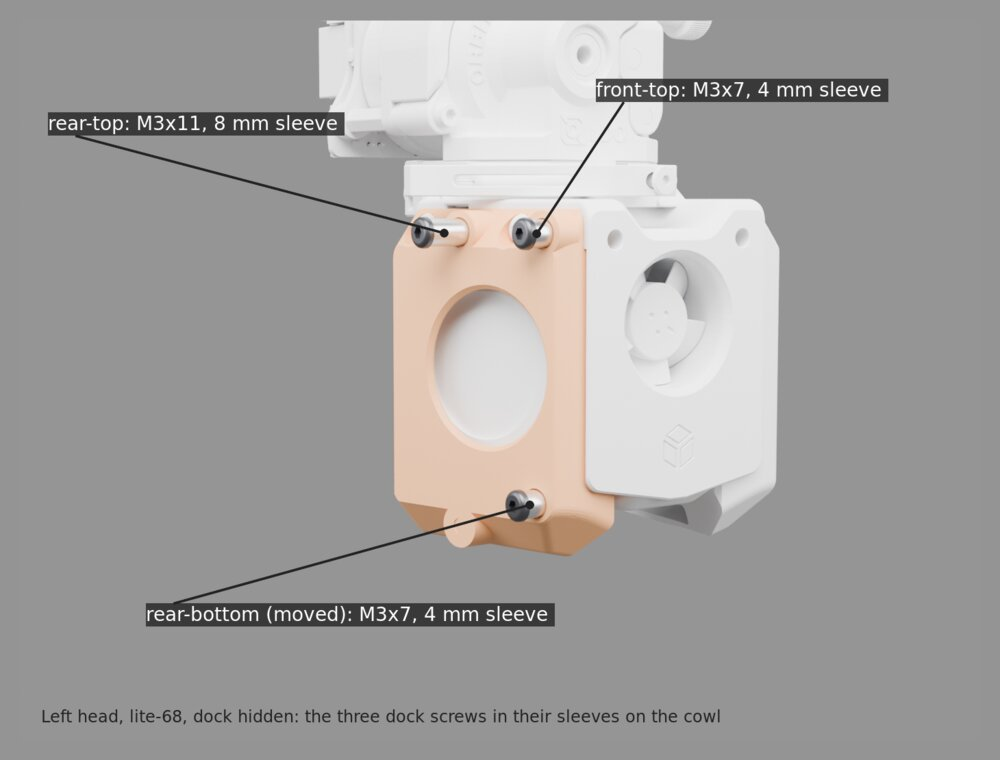
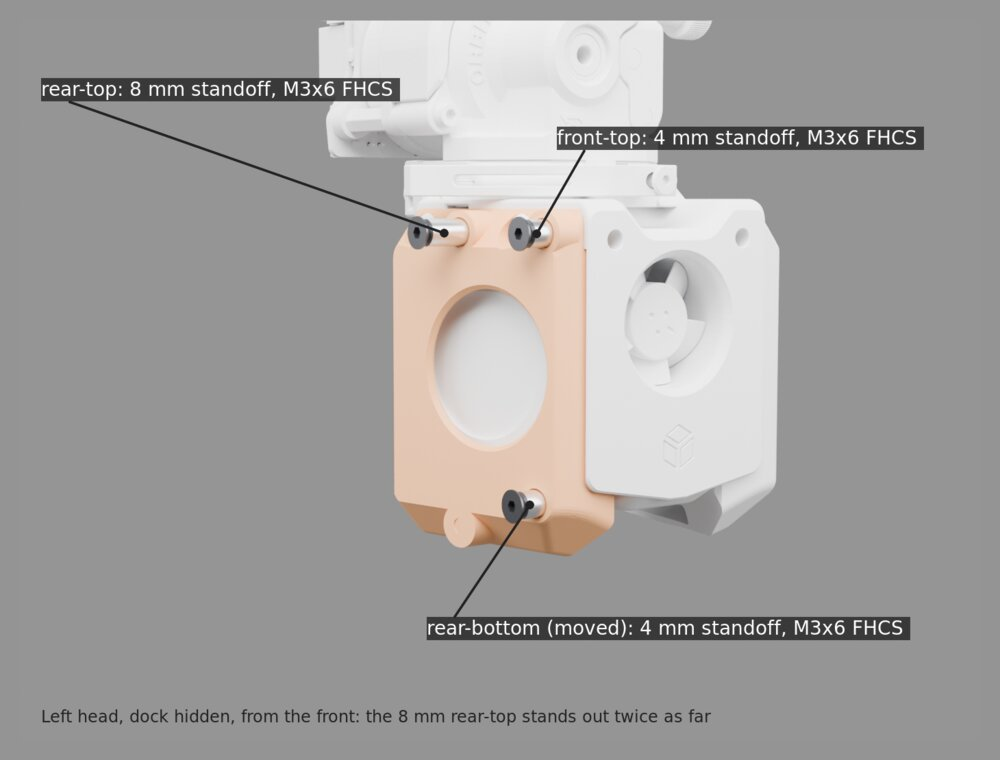
renders: dock hardware as chosen (M3x6 FHCS, standoffs, M3x3x5 inserts, 6x3 magnets); FHCS ground to 5 on 4 mm standoffs (#59)
Views 6-11 re-rendered under the same names. Modelling the hardware showed an M3x6 FHCS
puts 4.1 mm of thread into the standoff, more than a 4 mm body holds.

diff --git a/docs/assembly/stage-12-toolheads.md b/docs/assembly/stage-12-toolheads.md
@@ -20,7 +20,7 @@ height comes from the part, not from how far a screw is turned.
 | M3 heat-set insert, **short**: M3×3×5 (3 mm long, 5 mm OD), e.g. YuGtcen M3x3x5mm | 6 | Not the Voron 4 mm ones (the pocket is 3.4 mm deep), nor CNC Kitchen "M3 short" (thinner) |
 | M3 male-female round standoff, **4 mm body**, Ø5, M3×4 stud (e.g. "M3x4+4") | 5 | The 4 mm points |
 | M3 male-female round standoff, **8 mm body**, Ø5, M3×6 stud (e.g. AWclub "M3x8+6", 304 stainless) | 1 | The left head's rear-top |
-| M3 flat-head screw (FHCS, ISO 10642), **alloy steel** (black, strongly magnetic), not stainless; head **Ø5.8–6**, not the 5.5 kind | 6 | One per standoff. **M3×6** if the standoff's female thread is ≥ 4.5 mm deep, **M3×5** if it's 3.5–4.5 (measure it) |
+| M3 flat-head screw (FHCS, ISO 10642), **alloy steel** (black, strongly magnetic), not stainless; head **Ø5.8–6**, not the 5.5 kind | 6 | One per standoff. An M3×6 flat-head puts **4.1 mm** of thread into the standoff: more than a 4 mm standoff can hold, so on the **4 mm standoffs grind it to 5 mm** (3.1 mm in). On the 8 mm one, M3×6 fits if its hole is ≥ 4.5 mm deep (measure it) |
 | 6×3 mm N52 magnet (real N52, from a known vendor, e.g. Fabreeko) | 3 per dock | In the keyslot plate (step 5) |
 | CA glue | | For the magnets |
 | Threadlocker (medium, blue) | | On each stud |

diff --git a/cad/derived/madmax-andrewmcgr-dock-keyslot-pads/README.md b/cad/derived/madmax-andrewmcgr-dock-keyslot-pads/README.md
@@ -15,7 +15,7 @@ It's a modified version of a GPL-3.0 part.
 
 **Hardware per head** (the cowl side, `../a4tv2-duct-4010-madmax-dock/`): 3 short M3 heat-set inserts (3 mm long,
 5 mm OD) in the cowl; 3 M3 male-female round standoffs (4 mm body, Ø5, **stud ground to 3 mm**) screwed into them;
-3 M3 flat-head screws (FHCS, M3×6 or M3×5 by the standoff's thread depth), **alloy steel**, strongly magnetic, not stainless,
+3 M3×6 flat-head screws (FHCS; ground to 5 mm on the 4 mm standoffs), **alloy steel**, strongly magnetic, not stainless,
 in the standoffs' tops (the heads are the hooks).
 Every standoff is 4 mm, except the left head's rear-top: **8 mm** (an M3×8+6 standoff, its stud also ground to 3 mm; or two 4 mm stacked).
 The screw clamps on the standoff, so the hook height is the standoff's body, not how far a screw is turned.

diff --git a/parts/printed/vt350/madmax-andrewmcgr-dock-keyslot-pads/README.md b/parts/printed/vt350/madmax-andrewmcgr-dock-keyslot-pads/README.md
@@ -15,7 +15,7 @@ It's a modified version of a GPL-3.0 part.
 
 **Hardware per head** (the cowl side, `../a4tv2-duct-4010-madmax-dock/`): 3 short M3 heat-set inserts (3 mm long,
 5 mm OD) in the cowl; 3 M3 male-female round standoffs (4 mm body, Ø5, **stud ground to 3 mm**) screwed into them;
-3 M3 flat-head screws (FHCS, M3×6 or M3×5 by the standoff's thread depth), **alloy steel**, strongly magnetic, not stainless,
+3 M3×6 flat-head screws (FHCS; ground to 5 mm on the 4 mm standoffs), **alloy steel**, strongly magnetic, not stainless,
 in the standoffs' tops (the heads are the hooks).
 Every standoff is 4 mm, except the left head's rear-top: **8 mm** (an M3×8+6 standoff, its stud also ground to 3 mm; or two 4 mm stacked).
 The screw clamps on the standoff, so the hook height is the standoff's body, not how far a screw is turned.
